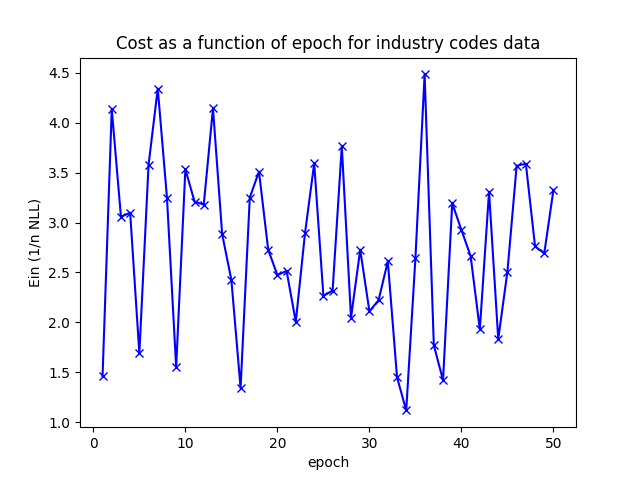
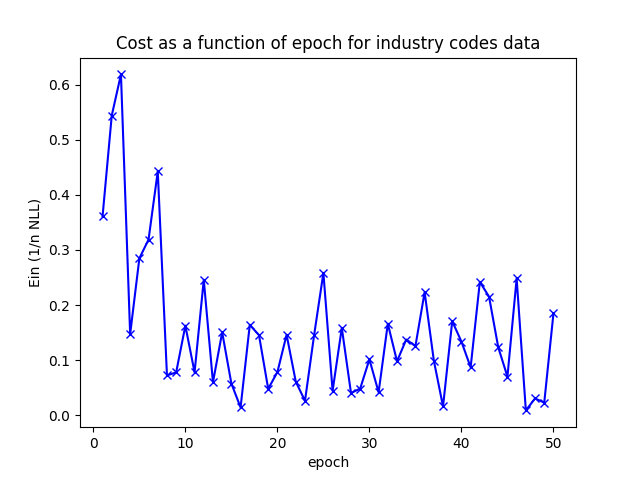
Cost and Grad functions working now.

diff --git a/handins/handin1/logistic_regression.py b/handins/handin1/logistic_regression.py
@@ -15,12 +15,12 @@ def logistic(z):
     """
     logi = np.zeros(z.shape)
     ### YOUR CODE HERE
-    
-    #Rows is equal to the amount of points we want to apply the sigmoid function on
+
+    # Rows is equal to the amount of points we want to apply the sigmoid function on
     rows = z.shape[0]
-    
-    #We take the sigmoid function each index in z and save it on the equivalent index in logi,
-    #which we return.
+
+    # We take the sigmoid function each index in z and save it on the equivalent index in logi,
+    # which we return.
     for i in range(rows):
         logi[i] = 1 / (1 + np.exp(-z[i]))
     ### END CODE
@@ -47,24 +47,23 @@ class LogisticRegressionClassifier:
            cost: scalar: the average negative log likelihood for logistic regression with data X, y
            grad: np.array shape(d, ) gradient of the average negative log likelihood at w
         """
-        
+
         cost = 0
         grad = np.zeros(w.shape)
-       
+
         ### SECOND TRY START
-        Xw = np.dot(X, w) #(n,1) 
-        XT = X.T #(d,n) 
-        
-        yXw = y * Xw #position wise multiplication, (n,1)
-        cost = np.mean(np.log(1+np.exp(yXw)))
-        
-        #The y should have negative sign, but it doesn't work if we have it
-        grad =(XT @ (y*logistic(yXw)))/X.shape[0]
-        
+        Xw = np.dot(X, w)  # (n,1)
+        XT = X.T  # (d,n)
+
+        yXw = y * Xw  # position wise multiplication, (n,1)
+        cost = np.mean(np.log(1 + np.exp(-yXw)))
+
+        # The y should have negative sign, but it doesn't work if we have it
+        grad = ( XT @ ( -y * logistic(-yXw) ) ) / X.shape[0]
+
         ### SECOND TRY END
         assert grad.shape == w.shape
         return cost, grad
-        
 
     def fit(self, X, y, w=None, lr=0.1, batch_size=16, epochs=10):
         """
@@ -95,19 +94,19 @@ class LogisticRegressionClassifier:
 
         # Initialize w from N(0,1)
         w = np.random.standard_normal(w.shape[0])
-        
-        #Number of batches (Iterations) per epoch
-        numOfBatches = int(np.floor(X.shape[0]/batch_size))
 
-        #Here we do mini-batch stochastic gradient descent
-        for i in range(epochs):
+        # Number of batches (Iterations) per epoch
+        numOfBatches = int(np.floor(X.shape[0] / batch_size))
+
+        # Here we do mini-batch stochastic gradient descent
+        for _ in range(epochs):
             cost_best = float("inf")
             # Here we get our sample of size batch_size
             Xy = np.hstack((X, y[:, np.newaxis]))
             XyShuff = np.random.permutation(Xy)
-            
+
             for j in range(numOfBatches):
-                Xys = XyShuff[j*batch_size:(j+1)*batch_size, :]
+                Xys = XyShuff[j * batch_size : (j + 1) * batch_size, :]
                 XShuff = Xys[:, :-1]
                 yShuff = Xys[:, -1]
 
@@ -120,7 +119,7 @@ class LogisticRegressionClassifier:
                     cost_best = cost
                     self.w = w
 
-                #We save the cost of the current epoch
+                # We save the cost of the current epoch
             history.append(cost)
 
         ### END CODE
